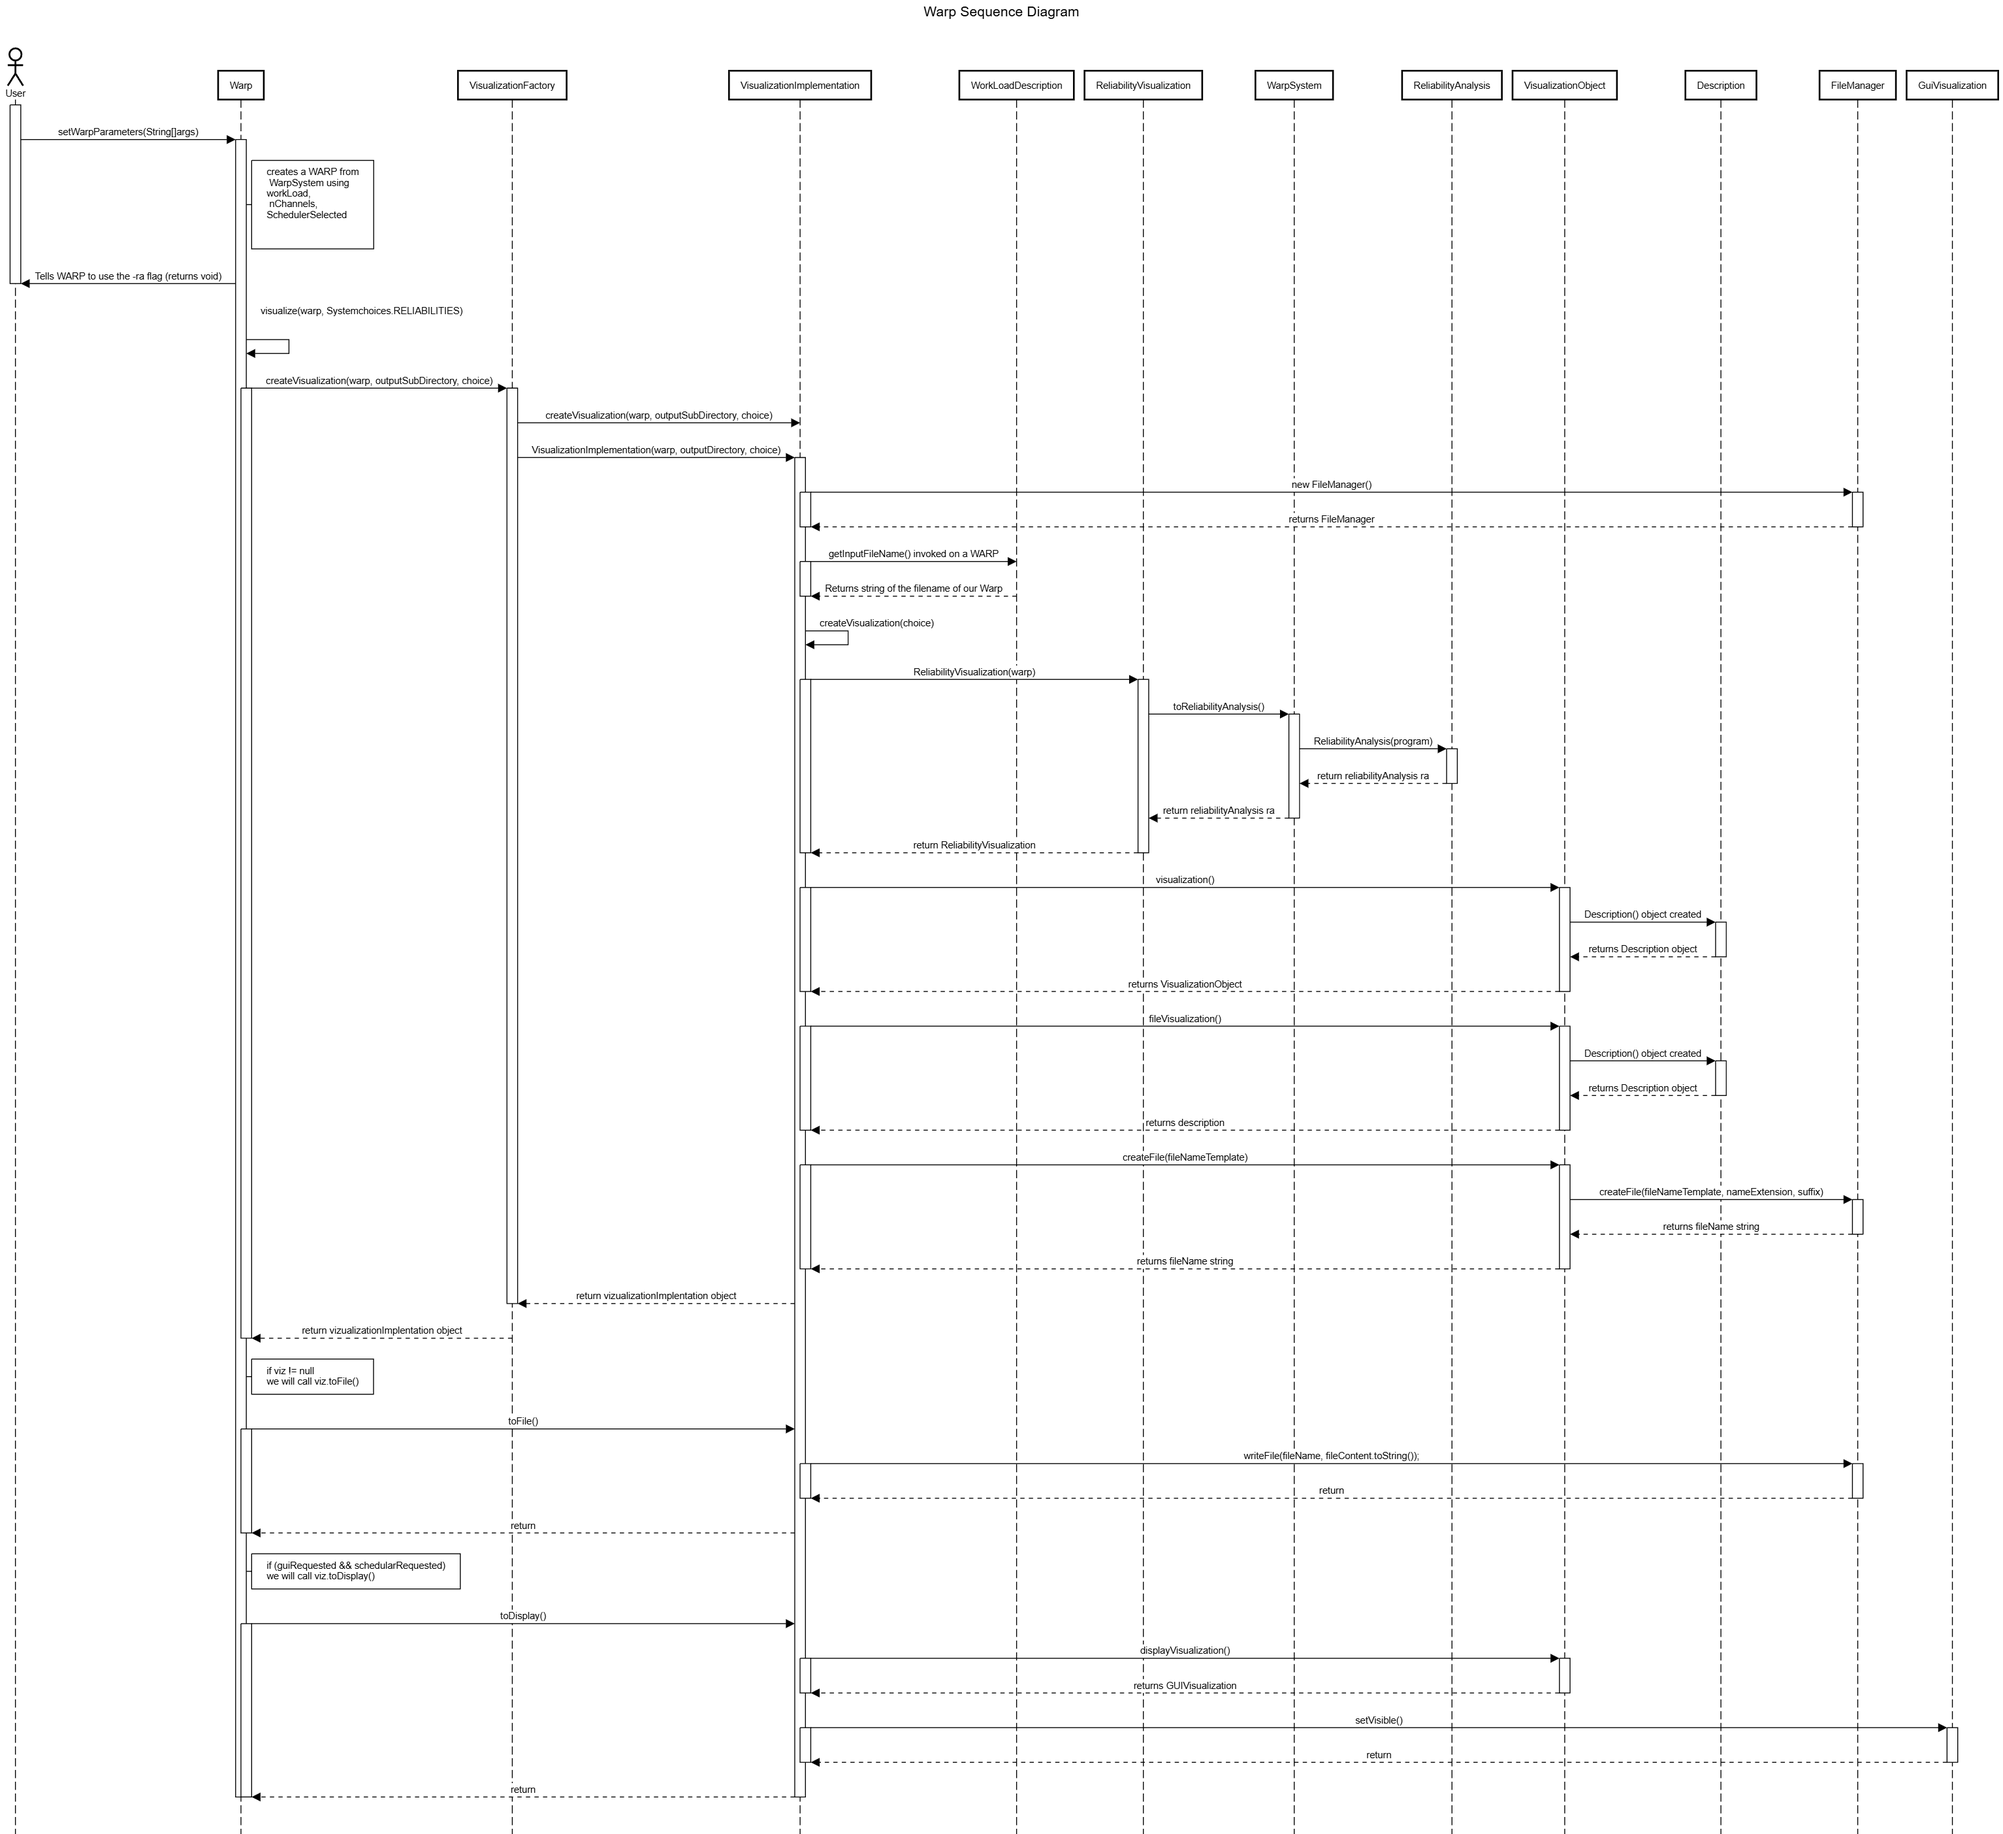
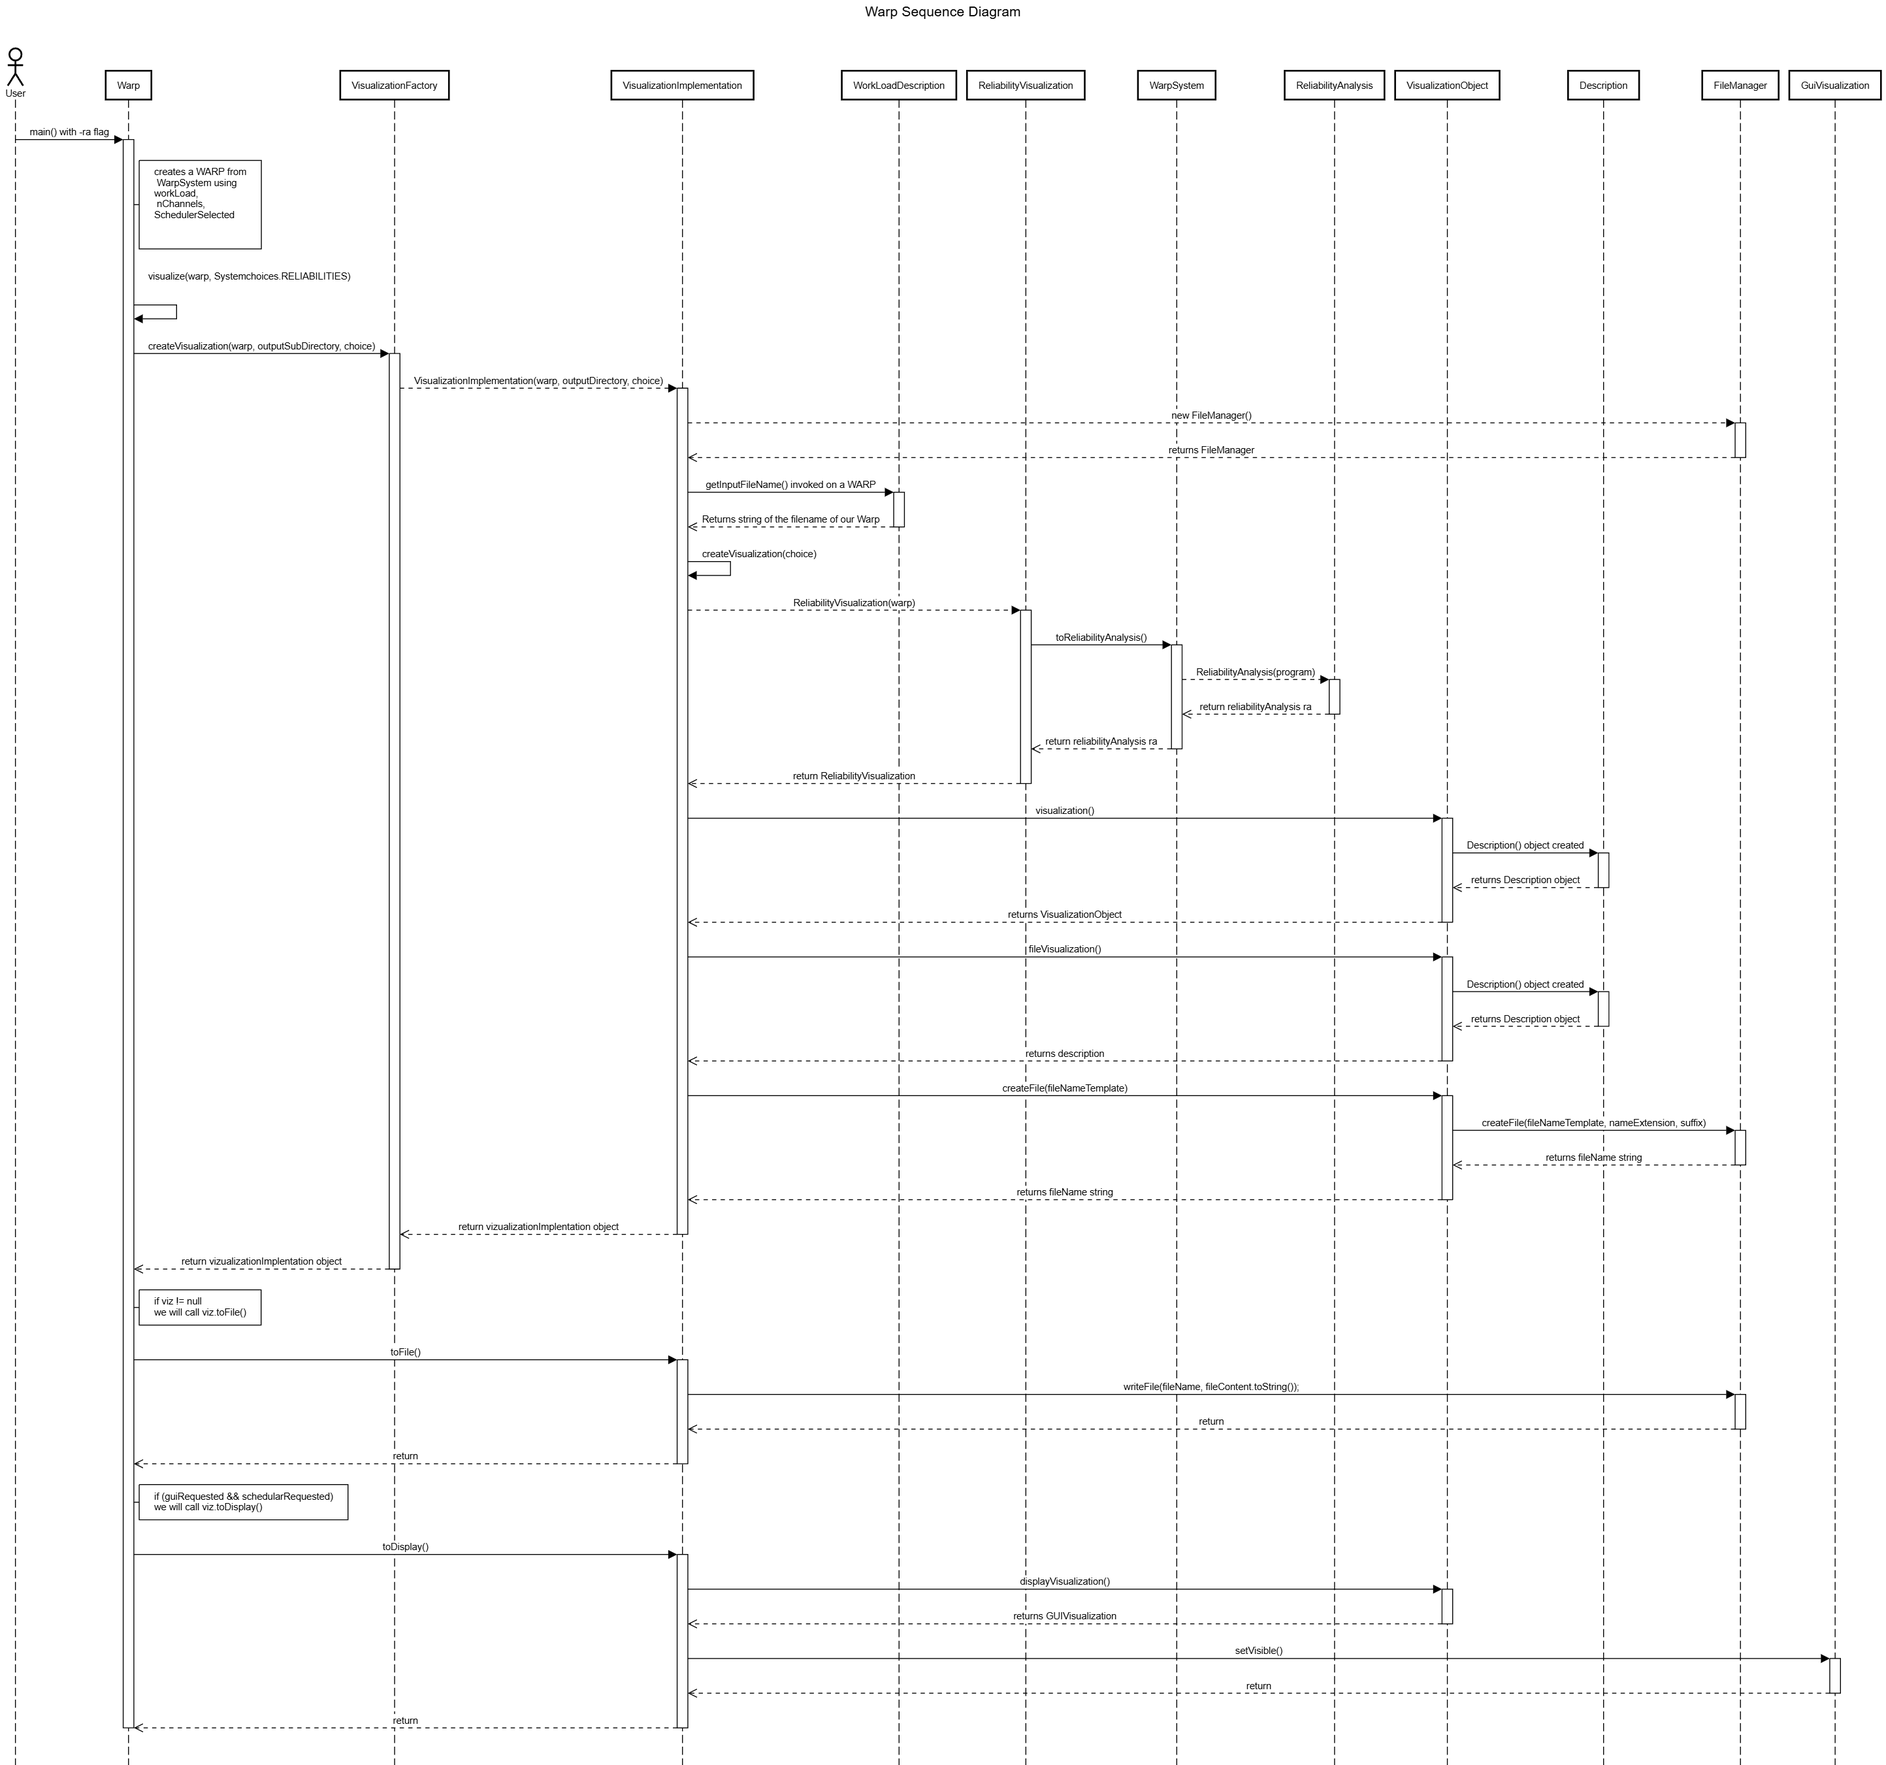
Corrections to UML Sequence Diagram .png and code

diff --git a/test/edu/uiowa/cs/warp/ReliabilityVisualizationTest.java b/test/edu/uiowa/cs/warp/ReliabilityVisualizationTest.java
@@ -1,0 +1,196 @@
+package edu.uiowa.cs.warp;
+
+import static org.junit.Assert.assertNotNull;
+import static org.junit.jupiter.api.Assertions.assertArrayEquals;
+import static org.junit.jupiter.api.Assertions.assertEquals;
+import static org.junit.jupiter.api.Assertions.assertTrue;
+import java.util.concurrent.TimeUnit;
+
+import java.io.ByteArrayOutputStream;
+import java.io.PrintStream;
+import java.util.ArrayList;
+import java.util.Arrays;
+import java.util.Iterator;
+import org.junit.Assert;
+import org.junit.jupiter.api.AfterEach;
+import org.junit.jupiter.api.BeforeEach;
+import org.junit.jupiter.api.RepeatedTest;
+import org.junit.jupiter.api.Test;
+import org.junit.jupiter.api.Timeout;
+
+import edu.uiowa.cs.warp.SystemAttributes.ScheduleChoices;
+
+class ReliabilityVisualizationTest {
+	
+
+//	private static final String String = null;
+	private GuiVisualization gVis;
+	
+	
+	/*
+	 public GuiVisualization displayVisualization() {
+		return new GuiVisualization(createTitle(), createColumnHeader(), createVisualizationData());
+	}
+	 */
+	
+
+	 private static final long TIMEOUT_IN_MILLISECONDS = 10000;
+	 private WorkLoad workLoad;
+
+
+	private Integer nChannels = 16;
+
+	private ScheduleChoices schedulerSelected = SystemAttributes.ScheduleChoices.PRIORITY;
+	private WarpInterface warp;
+	 
+	
+	@BeforeEach
+	void setUp() throws Exception {
+	    //Initialize workload with default values given in WorkLoad.java comment
+		workLoad = new WorkLoad(0.9, 0.99, "StressTest4.txt");
+	    
+		warp = SystemFactory.create(workLoad, nChannels, schedulerSelected);
+	
+	 }
+	
+	@Test
+	void testDisplayVisualization() {
+		
+		// gVis = new GuiVisualization(String s, String[] a, String[][] b);
+		
+		//not done
+	}
+	
+	@Test
+	void testCreateHeader() {	
+		/*
+		 * Reliability Analysis for graph StressTest
+			Scheduler Name: RateMonotonic
+			M: 0.9
+			E2E: 0.99
+			nChannels: 3
+		 */
+		
+		ReliabilityVisualization reliabilityVisualization = new ReliabilityVisualization(warp);
+		
+		//System.out.println(reliabilityVisualization.createHeader());
+		
+		Description desc = new Description();
+		desc.add("Reliability Analysis for graph StressTest4\n");
+		desc.add("Scheduler Name: Priority\n");
+		desc.add("M: 0.9\n");
+		desc.add("E2E: 0.99\n");
+		desc.add("nChannels: 16\n");
+	
+		
+		assertEquals(desc, reliabilityVisualization.createHeader());	
+		
+	}
+	
+	@Test
+	void testCreateHeaderNotNull() {
+		
+		ReliabilityVisualization reliabilityVisualization = new ReliabilityVisualization(warp);
+		
+		assertNotNull(reliabilityVisualization.createHeader());
+		
+		
+	}
+	
+	
+	//do metrics change based on the fault model we use
+	
+	@Timeout(value = TIMEOUT_IN_MILLISECONDS, unit = TimeUnit.MILLISECONDS)
+	@Test
+	void testCreateHeader2() {
+		
+		nChannels = 16;
+		workLoad = new WorkLoad(0.9, 0.99, "Example1a.txt");
+		schedulerSelected = SystemAttributes.ScheduleChoices.PRIORITY;
+	    
+		warp = SystemFactory.create(workLoad, nChannels, schedulerSelected);
+		
+		Description desc = new Description();
+		desc.add("Reliability Analysis for graph Example1A\n");
+		desc.add("Scheduler Name: Priority\n");
+		desc.add("M: 0.9\n");
+		desc.add("E2E: 0.99\n");
+		desc.add("nChannels: 16\n");
+		
+		ReliabilityVisualization reliabilityVisualization = new ReliabilityVisualization(warp);		
+		
+		System.out.println(reliabilityVisualization.createHeader());
+		
+		assertEquals(desc, reliabilityVisualization.createHeader());
+		
+		
+	}
+	
+	@Timeout(value = TIMEOUT_IN_MILLISECONDS, unit = TimeUnit.MILLISECONDS)
+	@Test
+	void testCreateHeaderWithNumFaultModel() {
+		
+		nChannels = 16;
+		workLoad = new WorkLoad(1, 0.9, 0.99, "Example1a.txt");
+		schedulerSelected = SystemAttributes.ScheduleChoices.PRIORITY;
+	    
+		warp = SystemFactory.create(workLoad, nChannels, schedulerSelected);
+		
+		Description desc = new Description();
+		desc.add("Reliability Analysis for graph Example1A\n");
+		desc.add("Scheduler Name: Priority\n");
+		desc.add("numFaults: 1\n");
+		desc.add("M: 0.9\n");
+		desc.add("E2E: 0.99\n");
+		desc.add("nChannels: 16\n");
+		
+		ReliabilityVisualization reliabilityVisualization = new ReliabilityVisualization(warp);		
+		
+		System.out.println(reliabilityVisualization.createHeader());
+		
+		assertEquals(desc, reliabilityVisualization.createHeader());
+		
+		
+	}
+	
+	
+	@Timeout(value = TIMEOUT_IN_MILLISECONDS, unit = TimeUnit.MILLISECONDS)
+	@Test
+	void testGetTotalNumberOfNodes() {
+		
+		nChannels = 16;
+		workLoad = new WorkLoad(0.9, 0.99, "Example1a.txt");
+		schedulerSelected = SystemAttributes.ScheduleChoices.PRIORITY;
+	    
+		warp = SystemFactory.create(workLoad, nChannels, schedulerSelected);
+		
+		ReliabilityVisualization reliabilityVisualization = new ReliabilityVisualization(warp);		
+		
+		ArrayList<String> flowNames = new ArrayList<String>();
+		flowNames.add("F0");
+		flowNames.add("F1");
+		
+		System.out.println(reliabilityVisualization.getTotalNumberOfNodes(flowNames, workLoad));
+		
+		int actualNodes = reliabilityVisualization.getTotalNumberOfNodes(flowNames, workLoad);
+		
+		assertEquals(6, actualNodes);
+		
+	}
+	
+		
+	
+	
+	//just test creating a ra file and see what an output likes
+	// same structure as WorkLoadTest.java
+	//
+	
+	/*
+	 * General test of running reliaibility analays
+	 * k-Fault model and -e and -m
+	 * What tings are for ReliabilityVisualization - does it have a title
+	 * does it remove
+	 * 
+	 */
+	
+}
